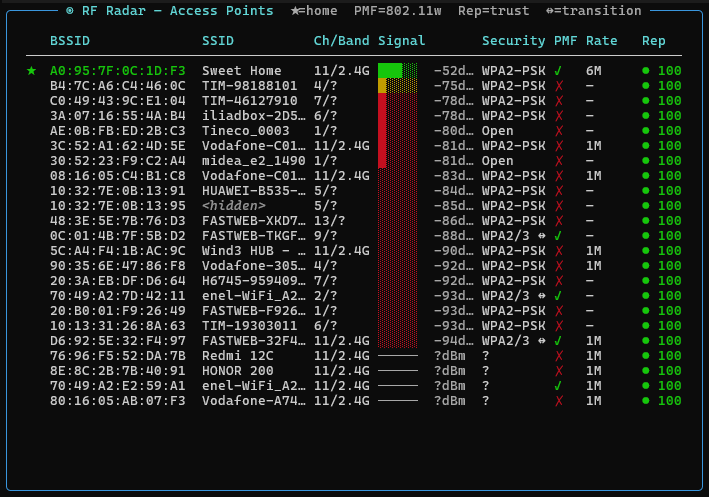
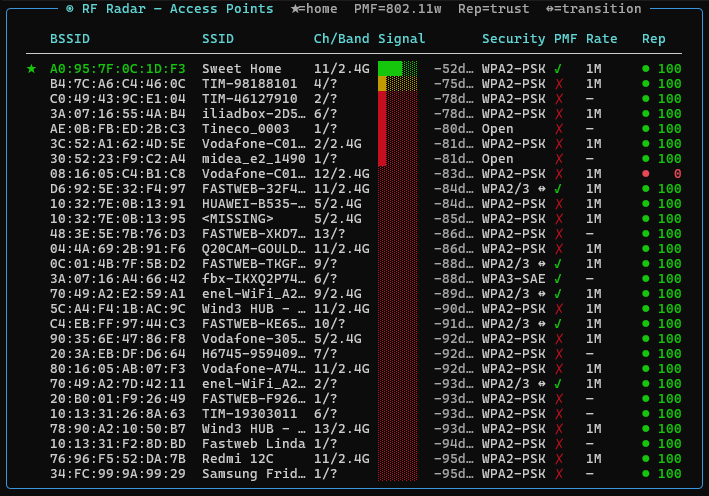
chores: updated screenshots with better events

diff --git a/README.md b/README.md
@@ -10,6 +10,10 @@ A real-time Wi-Fi and LAN threat CLI monitor for Raspberry Pi. Displays a live t
 
 <img alt="dashboard" src=.media/Dashboard.png />
 
+### Alert Feed
+
+<img alt="Alert Feed" src=.media/Alert_Feed.png />
+
 ### RF Radar
 
 <img alt="RF Radar" src=.media/RF_Radar.png />
@@ -18,9 +22,10 @@ A real-time Wi-Fi and LAN threat CLI monitor for Raspberry Pi. Displays a live t
 
 <img alt="Network Stats" src=.media/Network_Stats.png />
 
-### Device Registry
+<!-- ### Device Registry
 
-<img alt="Device Registry" src=.media/Device_Registry.png />
+<img alt="Device Registry" src=.media/Device_Registry.png /> -->
+
 
 ## Table of Contents
 
